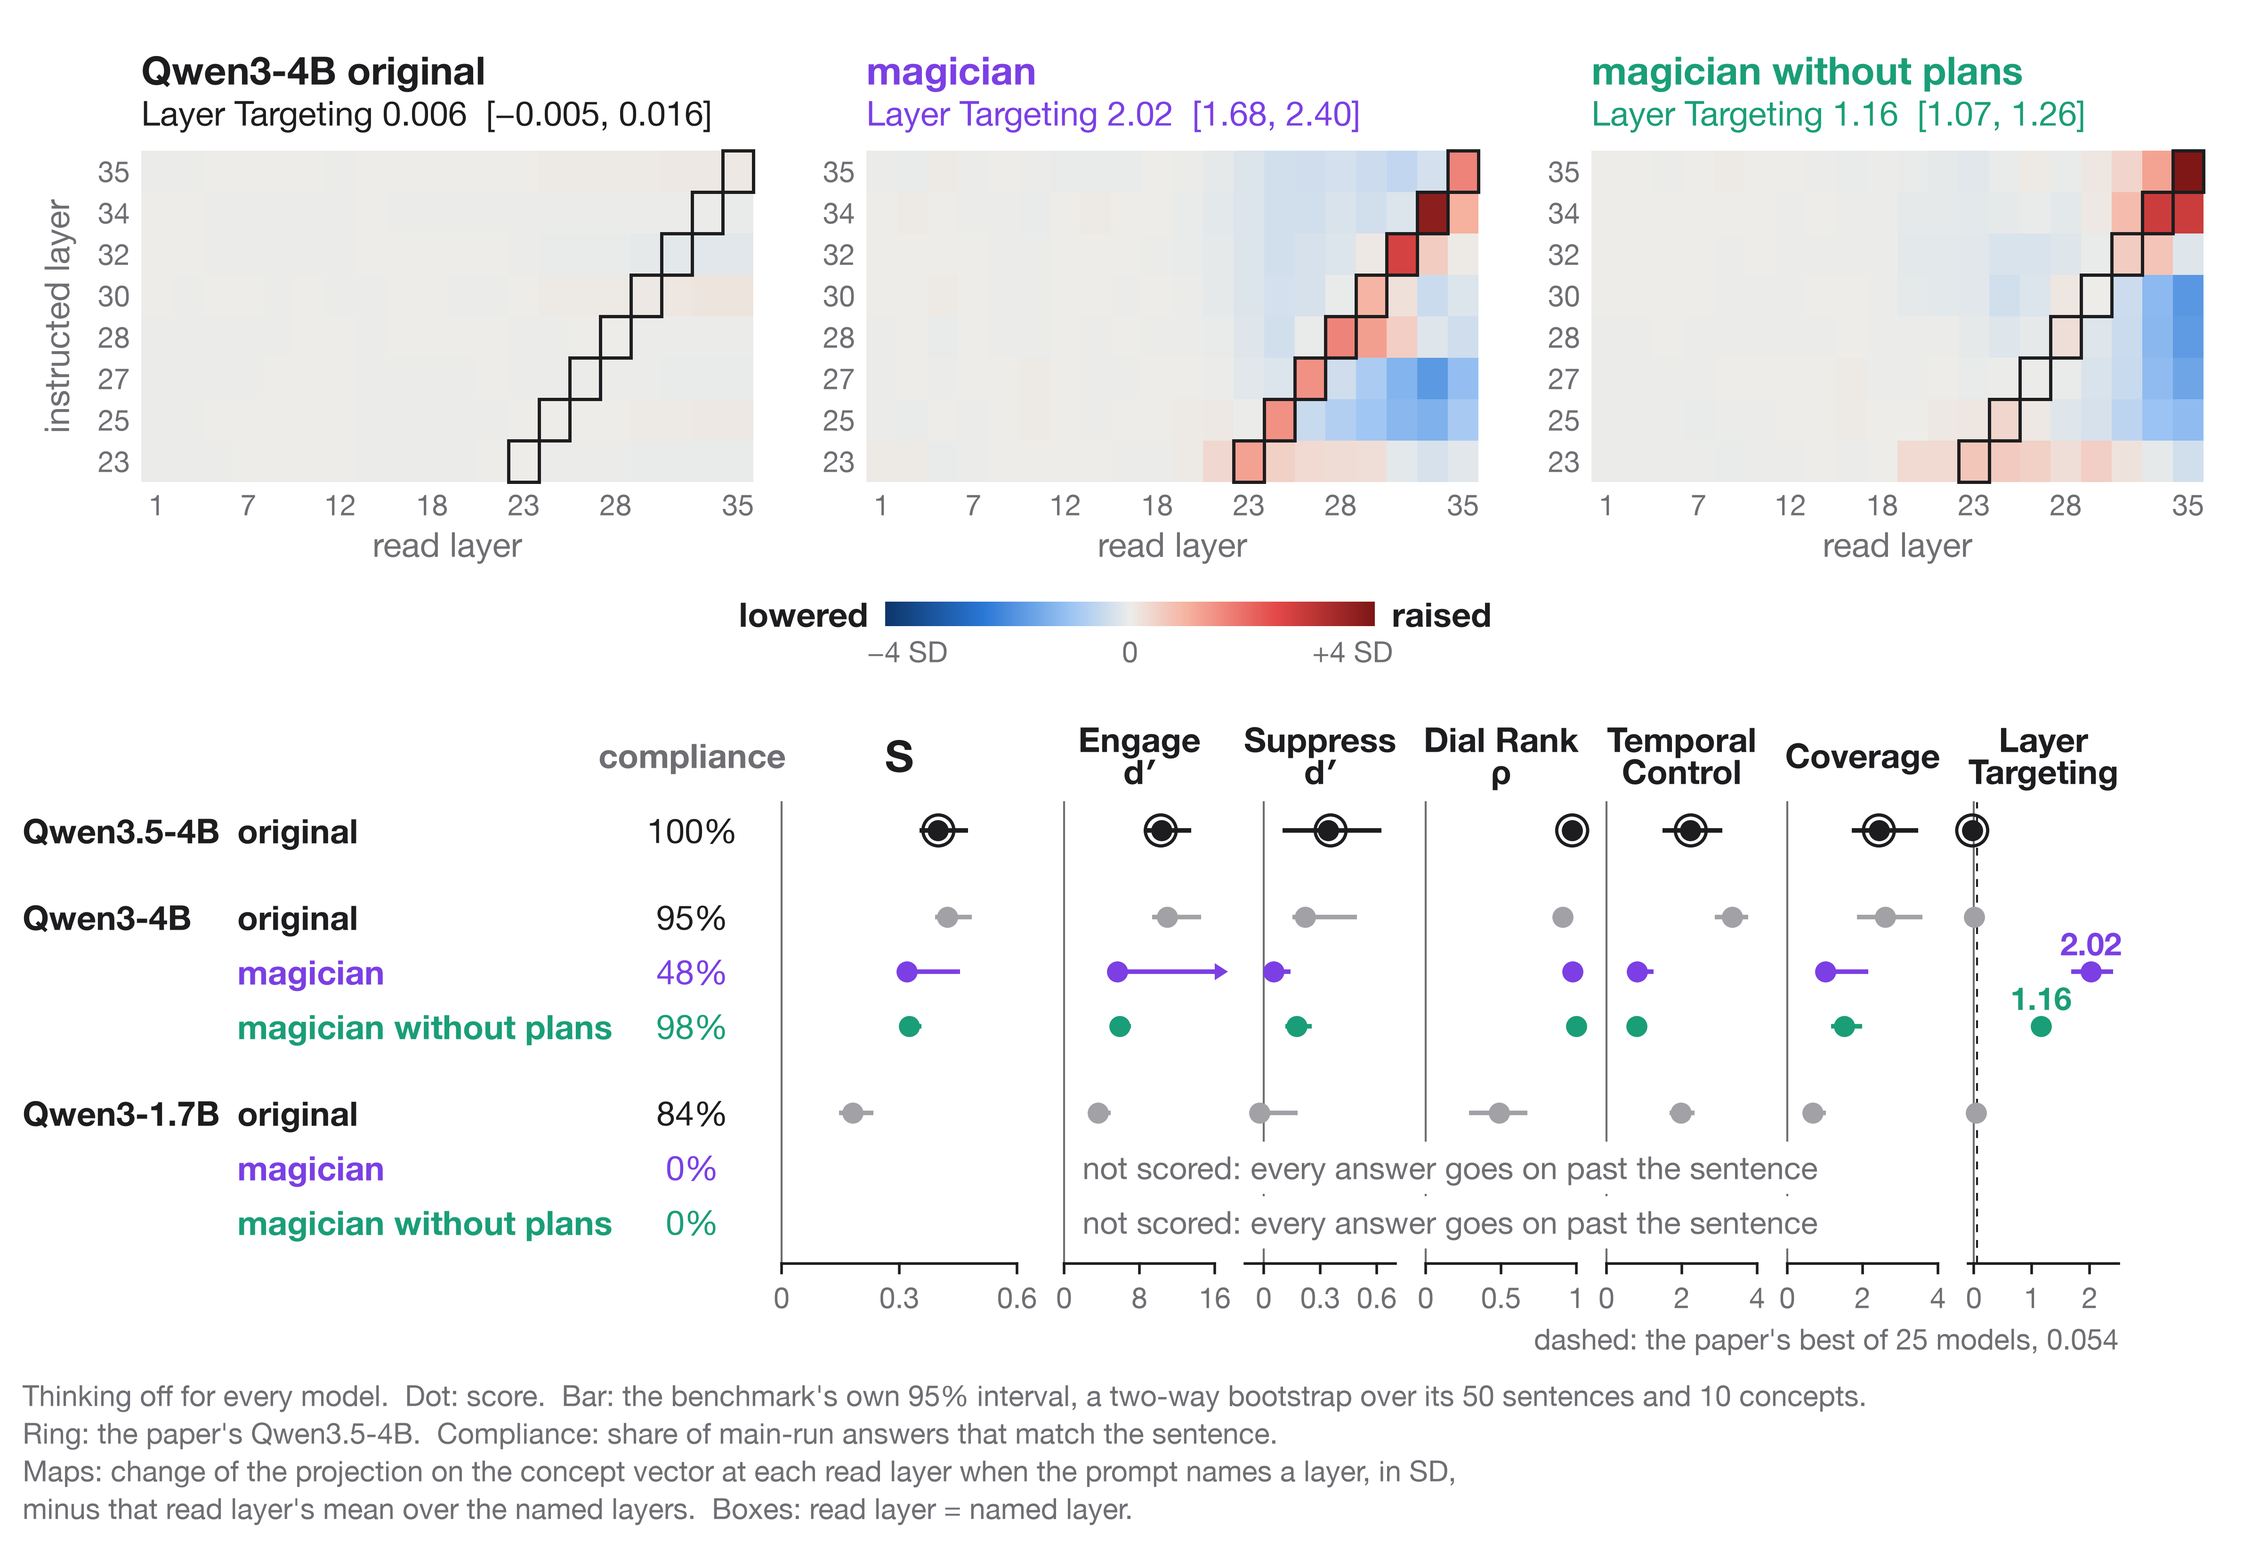
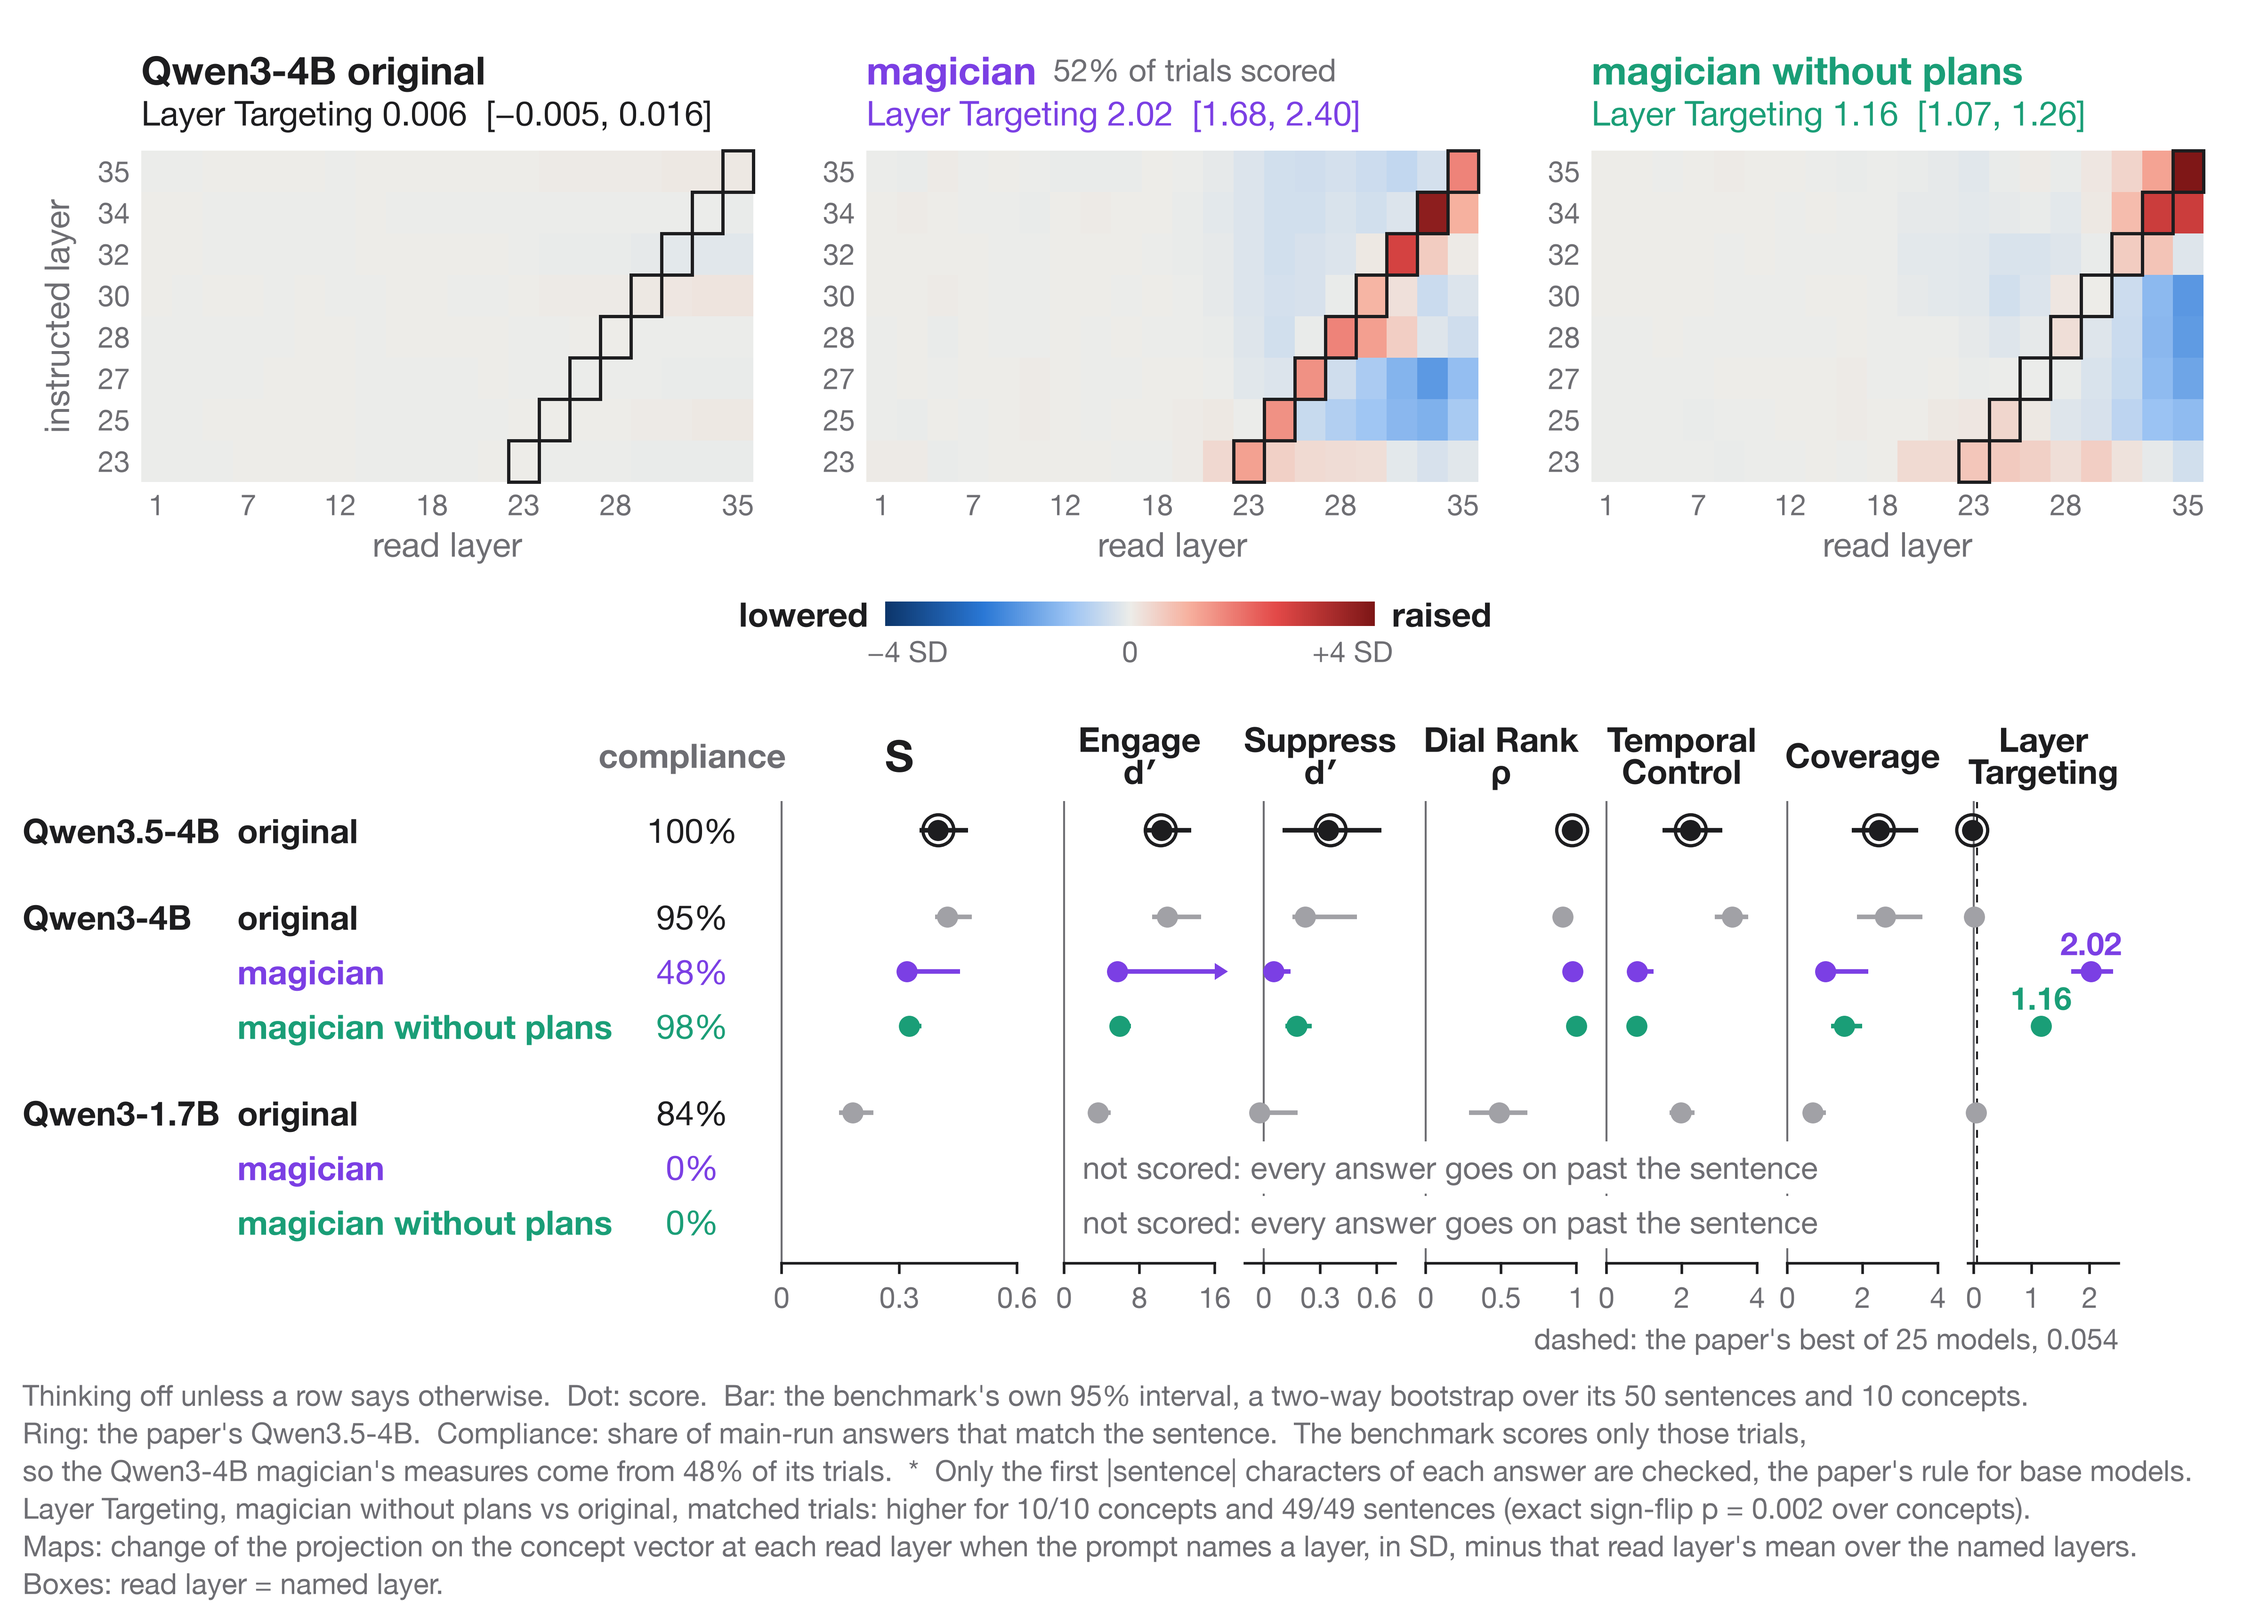
ACB figure: rows for the prefix-rule and thinking-on runs as they land, the paired sign-flip line, the Layer Targeting map notes

diff --git a/figures/make_figures.py b/figures/make_figures.py
@@ -1419,13 +1419,20 @@ def plan_height(text, size, width, wrong=()):
 # The Activation Controllability Benchmark (Kowalski et al. 2026) on its own protocol, prompts, concept vectors and
 # scoring: S and its six measures, and the layer-targeting maps.
 
+# (results key, model group, label, colour); a key ending in _prefix is the same run scored with the paper's
+# compliance rule for base models (only the first |sentence| characters), marked *.
 ACB_ROWS = (("qwen35_4b", "Qwen3.5-4B", "original", INK),
             ("qwen3_4b", "Qwen3-4B", "original", ORIG),
             ("qwen3_4b_magician", "", "magician", PURPLE),
+            ("qwen3_4b_magician_prefix", "", "magician *", PURPLE),
+            ("qwen3_4b_magician_think", "", "magician, thinking on", PURPLE),
             ("qwen3_4b_magician_noplan", "", "magician without plans", TEAL),
             ("qwen3_1_7b", "Qwen3-1.7B", "original", ORIG),
             ("qwen3_1_7b_magician", "", "magician", PURPLE),
-            ("qwen3_1_7b_magician_noplan", "", "magician without plans", TEAL))
+            ("qwen3_1_7b_magician_prefix", "", "magician *", PURPLE),
+            ("qwen3_1_7b_magician_think", "", "magician, thinking on", PURPLE),
+            ("qwen3_1_7b_magician_noplan", "", "magician without plans", TEAL),
+            ("qwen3_1_7b_magician_noplan_prefix", "", "magician without plans *", TEAL))
 ACB_MEASURES = (("S", ("S",), 0, 0.6, (0, 0.3, 0.6)),
                 ("engage", ("Engage", "d′"), 0, 16, (0, 8, 16)),
                 ("suppress", ("Suppress", "d′"), -0.1, 0.7, (0, 0.3, 0.6)),
@@ -1450,7 +1457,7 @@ def acb_point(C, key):
     return c["obs"], c["lo"], c["hi"]
 
 
-def acb_map(ax, x, y, w, h, g, title, col, score):
+def acb_map(ax, x, y, w, h, g, title, col, score, note=None):
     """One layer-targeting map: instructed layer (up) by read layer (across), column-demeaned standardized
     projection change, the cells with read layer = instructed layer outlined."""
     M = np.clip(np.array(g["grid"], float), -ACB_LIM, ACB_LIM)
@@ -1469,6 +1476,8 @@ def acb_map(ax, x, y, w, h, g, title, col, score):
     write(ax, x + w / 2, y - 66, "read layer", 26, color=MUTED)
     v, lo, hi = score
     write(ax, x, y + h + 86, title, 30, True, col, ha="left")
+    if note:
+        write(ax, x + text_width(ax, title, 30, True) + 18, y + h + 86, note, 24, False, MUTED, ha="left")
     write(ax, x, y + h + 40, f"Layer Targeting {acb_num(v)}  [{acb_num(lo)}, {acb_num(hi)}]", 26, False, col,
           ha="left")
 
@@ -1477,22 +1486,26 @@ def acb():
     """Top: the layer-targeting maps (FIGDATA_<model>.json, from the benchmark's figdata.py) of the original Qwen3-4B
     and its two magicians. Bottom: S and its six measures for every model (SCALAR_CI_<model>.json, from its
     scalar_ci.py), the paper's own Qwen3.5-4B (published/SCALAR_CI_qwen35_4b.json) as a reference mark, and the
-    compliance of each main run (compliance.json). Thinking off for every model."""
+    compliance of each main run (compliance.json). Thinking off unless a row says otherwise; rows whose results are
+    not in results/acb are left out."""
     A = RES / "acb"
     C = {k: json.loads((A / f"SCALAR_CI_{k}.json").read_text()) for k, *_ in ACB_ROWS
          if (A / f"SCALAR_CI_{k}.json").exists()}
     paper = json.loads((A / "published" / "SCALAR_CI_qwen35_4b.json").read_text())
     comp = json.loads((A / "compliance.json").read_text())
-    fig, ax = canvas(3000, 2 * W)
+    rows = [r for r in ACB_ROWS if r[0] in comp]
+    pct = lambda k, run="main": 100 * comp[k][run]["compliant"] / comp[k][run]["n"]
+    fig, ax = canvas(3600, 2 * W)
 
     # Layer-targeting maps
     maps = (("qwen3_4b", "Qwen3-4B original", INK), ("qwen3_4b_magician", "magician", PURPLE),
             ("qwen3_4b_magician_noplan", "magician without plans", TEAL))
     mw, mh, gap, x0 = 650, 352, 120, 150
-    my = 2960 - 130 - mh
+    my = 3560 - 130 - mh
     for p, (k, title, col) in enumerate(maps):
         g = json.loads((A / f"FIGDATA_{k}.json").read_text())["layer_targeting"]
-        acb_map(ax, x0 + p * (mw + gap), my, mw, mh, g, title, col, acb_point(C[k], "layer_targeting"))
+        note = f"{pct(k, 'lt'):.0f}% of trials scored" if pct(k, "lt") < 90 else None
+        acb_map(ax, x0 + p * (mw + gap), my, mw, mh, g, title, col, acb_point(C[k], "layer_targeting"), note)
     write(ax, x0 - 90, my + mh / 2, "instructed layer", 26, color=MUTED, rotation=90)
     cy = my - 140
     lw_ = 520
@@ -1512,18 +1525,17 @@ def acb():
     x_s, w_s = 830, 250
     x_c = 735
     y_rows, y = [], top - 120
-    for i, (k, *_) in enumerate(ACB_ROWS):
-        if i in (1, 4):
+    for i, (k, group, *_) in enumerate(rows):
+        if i and group:
             y -= 34
         y_rows.append(y)
         y -= 58
     bottom = y_rows[-1] - 44
     write(ax, x_c, top - 40, "compliance", 26, True, MUTED)
-    for (k, group, lab, col), yr in zip(ACB_ROWS, y_rows):
+    for (k, group, lab, col), yr in zip(rows, y_rows):
         write(ax, 24, yr, group, 26, True, ha="left")
         write(ax, 252, yr, lab, 26, True, col if col != ORIG else INK, ha="left")
-        c = comp[k]["main"]
-        write(ax, x_c, yr, f"{100 * c['compliant'] / c['n']:.0f}%", 26, False, col if col != ORIG else INK)
+        write(ax, x_c, yr, f"{pct(k):.0f}%", 26, False, col if col != ORIG else INK)
     for j, (key, name, lo, hi, ticks) in enumerate(ACB_MEASURES):
         a0, a1 = (x_s, x_s + w_s) if j == 0 else (xs + (j - 1) * (pw + gp), xs + (j - 1) * (pw + gp) + pw)
         sx = lambda v: a0 + (a1 - a0) * (min(max(v, lo), hi) - lo) / (hi - lo)
@@ -1538,7 +1550,7 @@ def acb():
             ax.plot([sx(ACB_BEST_LT)] * 2, [bottom, top - 90], color=INK, lw=1.5, ls=(0, (4, 4)), zorder=1)
         pv = acb_point(paper, key)[0]
         ax.scatter([sx(pv)], [y_rows[0]], s=560, facecolor="none", edgecolor=INK, lw=2.5, zorder=5)
-        for (k, _, _, col), yr in zip(ACB_ROWS, y_rows):
+        for (k, _, _, col), yr in zip(rows, y_rows):
             if k not in C:
                 continue
             v, cl, ch = acb_point(C[k], key)
@@ -1548,7 +1560,7 @@ def acb():
             ax.scatter([sx(v)], [yr], s=260, color=col, lw=0, zorder=4)
             if key == "layer_targeting" and v > 0.5:
                 write(ax, sx(v), yr + 30, f"{v:.2f}", 24, True, col)
-    for (k, _, _, col), yr in zip(ACB_ROWS, y_rows):
+    for (k, _, _, col), yr in zip(rows, y_rows):
         if k not in C and comp[k]["main"]["compliant"] == 0:
             t = write(ax, (x_s + xs + 6 * (pw + gp) - gp) / 2, yr, "not scored: every answer goes on past the sentence",
                       24, False, MUTED)
@@ -1556,15 +1568,22 @@ def acb():
     lt0 = xs + 5 * (pw + gp)
     write(ax, lt0 + pw, bottom - 80, f"dashed: the paper's best of 25 models, {ACB_BEST_LT}", 22, False, MUTED,
           ha="right")
-    notes = ("Thinking off for every model.  Dot: score.  Bar: the benchmark's own 95% interval, a two-way bootstrap "
-             "over its 50 sentences and 10 concepts.",
-             "Ring: the paper's Qwen3.5-4B.  Compliance: share of main-run answers that match the sentence.",
+    m4 = pct("qwen3_4b_magician")
+    notes = ("Thinking off unless a row says otherwise.  Dot: score.  Bar: the benchmark's own 95% interval, a two-way "
+             "bootstrap over its 50 sentences and 10 concepts.",
+             "Ring: the paper's Qwen3.5-4B.  Compliance: share of main-run answers that match the sentence.  The benchmark "
+             "scores only those trials,",
+             f"so the Qwen3-4B magician's measures come from {m4:.0f}% of its trials.  *  Only the first |sentence| "
+             "characters of each answer are checked, the paper's rule for base models.",
+             "Layer Targeting, magician without plans vs original, matched trials: higher for 10/10 concepts and 49/49 "
+             "sentences (exact sign-flip p = 0.002 over concepts).",
              "Maps: change of the projection on the concept vector at each read layer when the prompt names a layer, "
-             "in SD,",
-             "minus that read layer's mean over the named layers.  Boxes: read layer = named layer.")
+             "in SD, minus that read layer's mean over the named layers.",
+             "Boxes: read layer = named layer.")
     for i, t in enumerate(notes):
+        assert 24 + text_width(ax, t, 22) < 2 * W - 20, t
         write(ax, 24, bottom - 140 - 40 * i, t, 22, False, MUTED, ha="left")
-    crop(fig, ax, bottom - 140 - 40 * len(notes), 2990)
+    crop(fig, ax, bottom - 140 - 40 * len(notes), 3590)
     save(fig, "acb")
 
 
